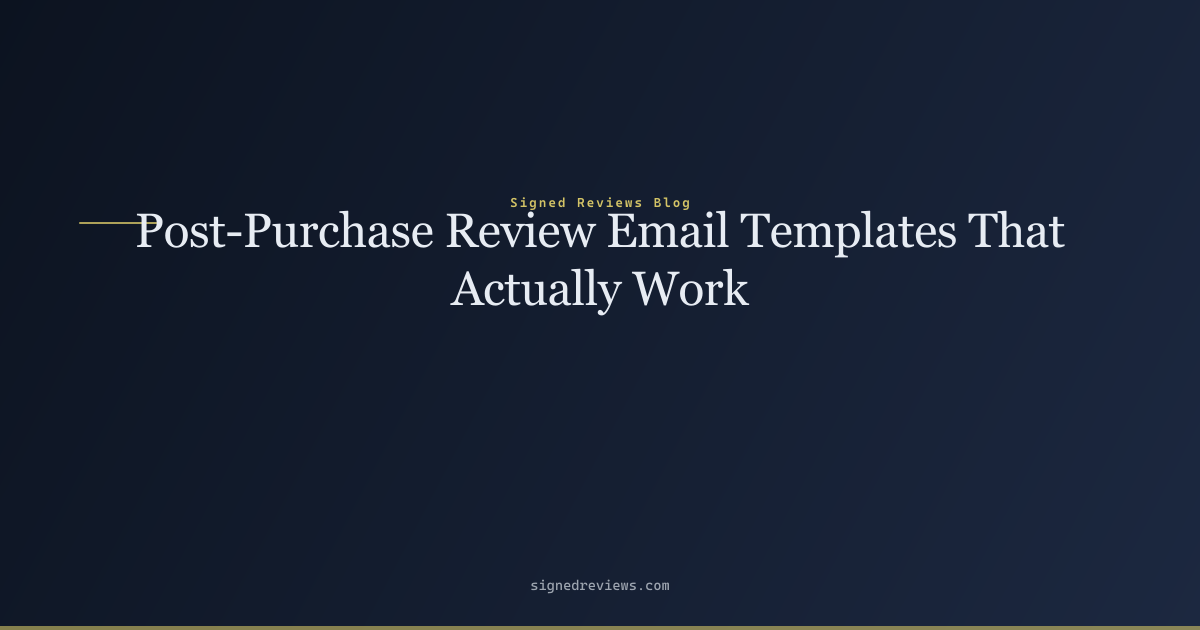
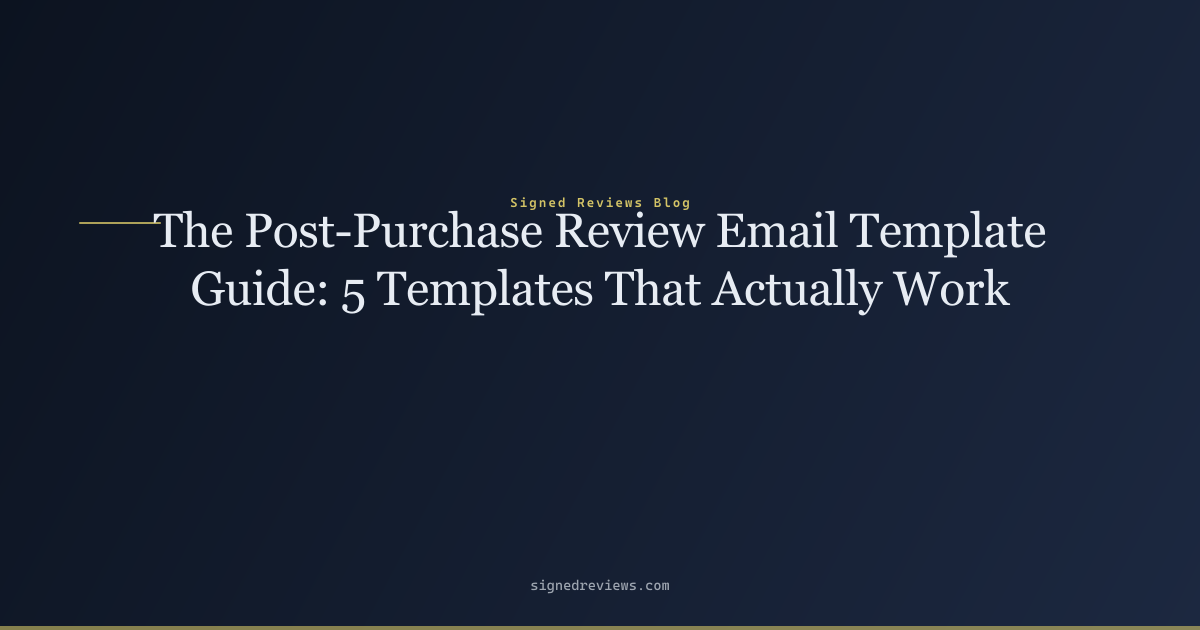
@ SEO: target "post purchase review email template" keyword on /blog/post-purchase-review-email-templates/
- Title: added singular "Post-Purchase Review Email Template Guide" for exact keyword match
- Description: leads with "Need a post purchase review email template..."
- H2: "The golden rules of any post purchase review email template"
- Body: keyword woven in 2x naturally (intro + Stripe automation section)
- Added internal link to /how-it-works/

@

Changed region(s): [[0.0925, 0.3317, 0.8942, 0.5127]]

diff --git a/blog/post-purchase-review-email-templates/index.html b/blog/post-purchase-review-email-templates/index.html
@@ -3,21 +3,21 @@
 <head>
   <meta charset="UTF-8">
   <meta name="viewport" content="width=device-width, initial-scale=1.0">
-  <title>Post-Purchase Review Email Templates That Actually Work — Signed Reviews Blog</title>
-  <meta name="description" content="Tried-and-tested post-purchase review email templates for e-commerce, SaaS, and services. Plus timing, subject lines, and the one mistake that kills response ra">
+  <title>The Post-Purchase Review Email Template Guide: 5 Templates That Actually Work — Signed Reviews Blog</title>
+  <meta name="description" content="Need a post purchase review email template that gets responses? Copy-and-paste templates for e-commerce, SaaS, and services — plus timing, subject lines, and th">
   <link rel="canonical" href="https://signedreviews.com/blog/post-purchase-review-email-templates/">
   <meta name="robots" content="index, follow">
   <meta name="theme-color" content="#0c1320">
 
   <meta property="og:type" content="article">
-  <meta property="og:title" content="Post-Purchase Review Email Templates That Actually Work — Signed Reviews Blog">
-  <meta property="og:description" content="Tried-and-tested post-purchase review email templates for e-commerce, SaaS, and services. Plus timing, subject lines, and the one mistake that kills response ra">
+  <meta property="og:title" content="The Post-Purchase Review Email Template Guide: 5 Templates That Actually Work — Signed Reviews Blog">
+  <meta property="og:description" content="Need a post purchase review email template that gets responses? Copy-and-paste templates for e-commerce, SaaS, and services — plus timing, subject lines, and th">
   <meta property="og:url" content="https://signedreviews.com/blog/post-purchase-review-email-templates/">
   <meta property="og:site_name" content="Signed Reviews">
   <meta property="og:image" content="https://signedreviews.com/images/og/post-purchase-review-email-templates.png">
   <meta name="twitter:card" content="summary_large_image">
-  <meta name="twitter:title" content="Post-Purchase Review Email Templates That Actually Work — Signed Reviews Blog">
-  <meta name="twitter:description" content="Tried-and-tested post-purchase review email templates for e-commerce, SaaS, and services. Plus timing, subject lines, and the one mistake that kills response ra">
+  <meta name="twitter:title" content="The Post-Purchase Review Email Template Guide: 5 Templates That Actually Work — Signed Reviews Blog">
+  <meta name="twitter:description" content="Need a post purchase review email template that gets responses? Copy-and-paste templates for e-commerce, SaaS, and services — plus timing, subject lines, and th">
   <meta name="twitter:image" content="https://signedreviews.com/images/og/post-purchase-review-email-templates.png">
 
   <link rel="icon" type="image/png" sizes="32x32" href="/images/SignedReviews_logo_only.png?v=20260729a">
@@ -524,9 +524,9 @@ main { padding: 0; }
     })();
   </script>
   <script type="application/ld+json">{"@context":"https://schema.org","@type":"Organization","name":"Signed Reviews","legalName":"Paid Rightly LLC","url":"https://signedreviews.com","logo":"https://signedreviews.com/images/SignedReviews_logo_only.png","description":"Signed Reviews is a SaaS platform that helps businesses collect verified, tamper-evident customer reviews by linking each review to a completed Stripe transaction.","email":"support@signedreviews.com","address":{"@type":"PostalAddress","streetAddress":"1209 Mountain Road Pl NE, Ste N","addressLocality":"Albuquerque","addressRegion":"NM","postalCode":"87110","addressCountry":"US"}}</script>
-  <script type="application/ld+json">{"@context":"https://schema.org","@type":"BreadcrumbList","itemListElement":[{"@type":"ListItem","position":1,"name":"Home","item":"https://signedreviews.com/"},{"@type":"ListItem","position":2,"name":"Blog","item":"https://signedreviews.com/blog/"},{"@type":"ListItem","position":3,"name":"Post-Purchase Review Email Templates That Actually Work","item":"https://signedreviews.com/blog/post-purchase-review-email-templates/"}]}</script>
+  <script type="application/ld+json">{"@context":"https://schema.org","@type":"BreadcrumbList","itemListElement":[{"@type":"ListItem","position":1,"name":"Home","item":"https://signedreviews.com/"},{"@type":"ListItem","position":2,"name":"Blog","item":"https://signedreviews.com/blog/"},{"@type":"ListItem","position":3,"name":"The Post-Purchase Review Email Template Guide: 5 Templates That Actually Work","item":"https://signedreviews.com/blog/post-purchase-review-email-templates/"}]}</script>
 
-  <script type="application/ld+json">{"@context":"https://schema.org","@type":"BlogPosting","headline":"Post-Purchase Review Email Templates That Actually Work","description":"Tried-and-tested post-purchase review email templates for e-commerce, SaaS, and services. Plus timing, subject lines, and the one mistake that kills response ra","datePublished":"2026-07-24","dateModified":"2026-07-24","mainEntityOfPage":{"@type":"WebPage","@id":"https://signedreviews.com/blog/post-purchase-review-email-templates/"},"image":["https://signedreviews.com/images/og/post-purchase-review-email-templates.png"],"author":{"@type":"Organization","name":"Signed Reviews","url":"https://signedreviews.com"},"publisher":{"@type":"Organization","name":"Signed Reviews","logo":{"@type":"ImageObject","url":"https://signedreviews.com/images/SignedReviews_logo_only.png"}}}</script>
+  <script type="application/ld+json">{"@context":"https://schema.org","@type":"BlogPosting","headline":"The Post-Purchase Review Email Template Guide: 5 Templates That Actually Work","description":"Need a post purchase review email template that gets responses? Copy-and-paste templates for e-commerce, SaaS, and services — plus timing, subject lines, and th","datePublished":"2026-07-24","dateModified":"2026-07-24","mainEntityOfPage":{"@type":"WebPage","@id":"https://signedreviews.com/blog/post-purchase-review-email-templates/"},"image":["https://signedreviews.com/images/og/post-purchase-review-email-templates.png"],"author":{"@type":"Organization","name":"Signed Reviews","url":"https://signedreviews.com"},"publisher":{"@type":"Organization","name":"Signed Reviews","logo":{"@type":"ImageObject","url":"https://signedreviews.com/images/SignedReviews_logo_only.png"}}}</script>
 </head>
 <body>
   <a class="skip-link" href="#main">Skip to main content</a>
@@ -567,19 +567,19 @@ main { padding: 0; }
     <section class="page-hero">
       <div class="page-hero-inner">
         <span class="eyebrow">Blog</span>
-        <h1>Post-Purchase Review Email Templates That Actually Work</h1>
-        <p>Tried-and-tested post-purchase review email templates for e-commerce, SaaS, and services. Plus timing, subject lines, and the one mistake that kills response ra</p>
+        <h1>The Post-Purchase Review Email Template Guide: 5 Templates That Actually Work</h1>
+        <p>Need a post purchase review email template that gets responses? Copy-and-paste templates for e-commerce, SaaS, and services — plus timing, subject lines, and th</p>
       </div>
     </section>
     <div class="prose-wrap">
       <article class="prose" style="max-width: var(--max-prose)">
       <p class="post-meta" style="color:var(--muted);font-size:.9rem;margin-bottom:1.5rem;">2026-07-24</p>
       
-<p><strong>Published:</strong> 2026-07-24 · <strong>Author:</strong> Signed Reviews Team · <strong>Description:</strong> Tried-and-tested post-purchase review email templates for e-commerce, SaaS, and services. Plus timing, subject lines, and the one mistake that kills response rates.</p>
+<p><strong>Published:</strong> 2026-07-24 · <strong>Author:</strong> Signed Reviews Team · <strong>Description:</strong> Need a post purchase review email template that gets responses? Copy-and-paste templates for e-commerce, SaaS, and services — plus timing, subject lines, and the one mistake that kills response rates.</p>
 <hr>
-<p>The best time to ask for a review is right after a customer has experienced your product — but not so soon that they haven&#39;t formed an opinion. The worst time is when they&#39;re annoyed by yet another marketing email.</p>
+<p>The best time to ask for a review is right after a customer has experienced your product — but not so soon that they haven&#39;t formed an opinion. The worst time is when they&#39;re annoyed by yet another marketing email. A well-crafted post purchase review email template can double your response rates — but only if you get the timing, structure, and ask right.</p>
 <p>This guide covers when to send, what to say, and how to structure your review request emails for maximum response rates. Every template is based on patterns that consistently outperform generic &quot;please leave us a review&quot; messages.</p>
-<h2 id="the-golden-rules-of-review-request-emails"><a class="anchor" href="#the-golden-rules-of-review-request-emails" aria-label="Permalink to The golden rules of review request emails">#</a> The golden rules of review request emails</h2>
+<h2 id="the-golden-rules-of-any-post-purchase-review-email-template"><a class="anchor" href="#the-golden-rules-of-any-post-purchase-review-email-template" aria-label="Permalink to The golden rules of any post purchase review email template">#</a> The golden rules of any post purchase review email template</h2>
 <p>Before the templates, three principles that determine whether your emails get opened — or deleted:</p>
 <h3 id="1-one-ask-one-action"><a class="anchor" href="#1-one-ask-one-action" aria-label="Permalink to 1. One ask, one action">#</a> 1. One ask, one action</h3>
 <p>Your email has exactly one job: get the customer to click the review link. Don&#39;t cross-sell. Don&#39;t ask them to follow you on social media. Don&#39;t include three different CTAs. One email, one link, one action.</p>
@@ -707,7 +707,7 @@ main { padding: 0; }
 <p>A no-reply sender address says &quot;we want your opinion but not your conversation.&quot; It depresses response rates and damages brand perception. Use a real address, even if it&#39;s just a team alias.</p>
 <h2 id="how-stripe-native-review-collection-changes-the-equation"><a class="anchor" href="#how-stripe-native-review-collection-changes-the-equation" aria-label="Permalink to How Stripe-native review collection changes the equation">#</a> How Stripe-native review collection changes the equation</h2>
 <p>If you process payments through Stripe, you can automate all of this. Every charge triggers a review invitation automatically. The timing rules above are configurable — same-day, delayed, or delivery-triggered. And because the invitation is tied to the Stripe transaction, the review is processor-attested: verified independently by Stripe, not just matched to an order in your system.</p>
-<p>The templates still matter. The timing still matters. But the automation removes the operational overhead — and the independent verification makes every review more credible once it arrives.</p>
+<p>The templates still matter. The timing still matters. But the automation removes the operational overhead — and the independent verification makes every review more credible once it arrives. <a href="/how-it-works/">See how the automated verification engine works</a> — one click and every post purchase review email template is sent at the right time, automatically.</p>
 <hr>
 <p><strong>Further reading:</strong> <a href="/blog/how-to-collect-verified-customer-reviews/">How to Collect Verified Customer Reviews</a> · <a href="/blog/stripe-verified-reviews/">Stripe Verified Reviews</a> · <a href="/blog/how-stripe-review-verification-works/">How Stripe Review Verification Works</a></p>
 

diff --git a/blog/index.html b/blog/index.html
@@ -629,9 +629,9 @@ main { padding: 0; }
       <p style="margin:0;color:var(--text);font-size:.95rem;">What does verified buyer actually mean? Learn the real verified buyer meaning — from email-verified to processor-attested proof of purchase reviews — and how to</p>
     </div>
     <div style="margin-bottom:1.5rem;padding-bottom:1.5rem;border-bottom:1px solid var(--border);">
-      <h2 style="margin:0 0 .3rem;font-size:1.25rem;"><a href="/blog/post-purchase-review-email-templates/" style="text-decoration:none;">Post-Purchase Review Email Templates That Actually Work</a></h2>
+      <h2 style="margin:0 0 .3rem;font-size:1.25rem;"><a href="/blog/post-purchase-review-email-templates/" style="text-decoration:none;">The Post-Purchase Review Email Template Guide: 5 Templates That Actually Work</a></h2>
       <p class="post-meta" style="color:var(--muted);font-size:.85rem;margin:0 0 .4rem;">2026-07-24</p>
-      <p style="margin:0;color:var(--text);font-size:.95rem;">Tried-and-tested post-purchase review email templates for e-commerce, SaaS, and services. Plus timing, subject lines, and the one mistake that kills response ra</p>
+      <p style="margin:0;color:var(--text);font-size:.95rem;">Need a post purchase review email template that gets responses? Copy-and-paste templates for e-commerce, SaaS, and services — plus timing, subject lines, and th</p>
     </div>
     <div style="margin-bottom:1.5rem;padding-bottom:1.5rem;border-bottom:1px solid var(--border);">
       <h2 style="margin:0 0 .3rem;font-size:1.25rem;"><a href="/blog/how-to-verify-a-customer-actually-bought/" style="text-decoration:none;">How to Verify a Customer Actually Bought: 4 Methods, Ranked</a></h2>

diff --git a/files/blog/post-purchase-review-email-templates.md b/files/blog/post-purchase-review-email-templates.md
@@ -1,14 +1,14 @@
-# Post-Purchase Review Email Templates That Actually Work
+# The Post-Purchase Review Email Template Guide: 5 Templates That Actually Work
 
-**Published:** 2026-07-24 · **Author:** Signed Reviews Team · **Description:** Tried-and-tested post-purchase review email templates for e-commerce, SaaS, and services. Plus timing, subject lines, and the one mistake that kills response rates.
+**Published:** 2026-07-24 · **Author:** Signed Reviews Team · **Description:** Need a post purchase review email template that gets responses? Copy-and-paste templates for e-commerce, SaaS, and services — plus timing, subject lines, and the one mistake that kills response rates.
 
 ---
 
-The best time to ask for a review is right after a customer has experienced your product — but not so soon that they haven't formed an opinion. The worst time is when they're annoyed by yet another marketing email.
+The best time to ask for a review is right after a customer has experienced your product — but not so soon that they haven't formed an opinion. The worst time is when they're annoyed by yet another marketing email. A well-crafted post purchase review email template can double your response rates — but only if you get the timing, structure, and ask right.
 
 This guide covers when to send, what to say, and how to structure your review request emails for maximum response rates. Every template is based on patterns that consistently outperform generic "please leave us a review" messages.
 
-## The golden rules of review request emails
+## The golden rules of any post purchase review email template
 
 Before the templates, three principles that determine whether your emails get opened — or deleted:
 
@@ -183,7 +183,7 @@ A no-reply sender address says "we want your opinion but not your conversation."
 
 If you process payments through Stripe, you can automate all of this. Every charge triggers a review invitation automatically. The timing rules above are configurable — same-day, delayed, or delivery-triggered. And because the invitation is tied to the Stripe transaction, the review is processor-attested: verified independently by Stripe, not just matched to an order in your system.
 
-The templates still matter. The timing still matters. But the automation removes the operational overhead — and the independent verification makes every review more credible once it arrives.
+The templates still matter. The timing still matters. But the automation removes the operational overhead — and the independent verification makes every review more credible once it arrives. <a href="/how-it-works/">See how the automated verification engine works</a> — one click and every post purchase review email template is sent at the right time, automatically.
 
 ---
 
